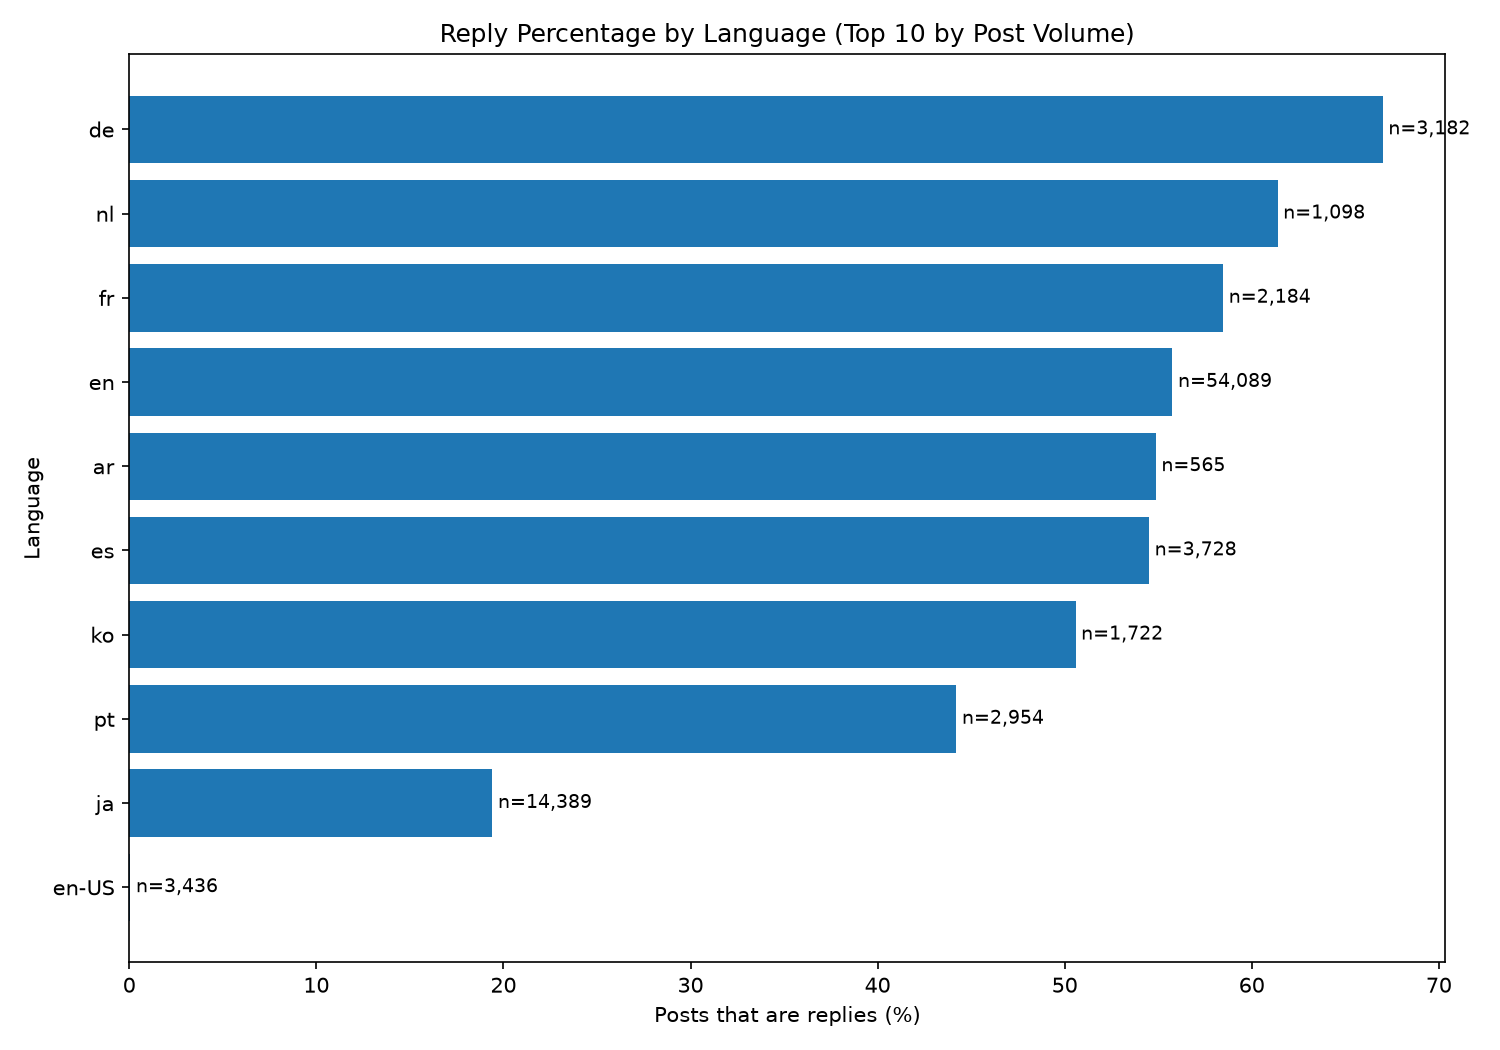
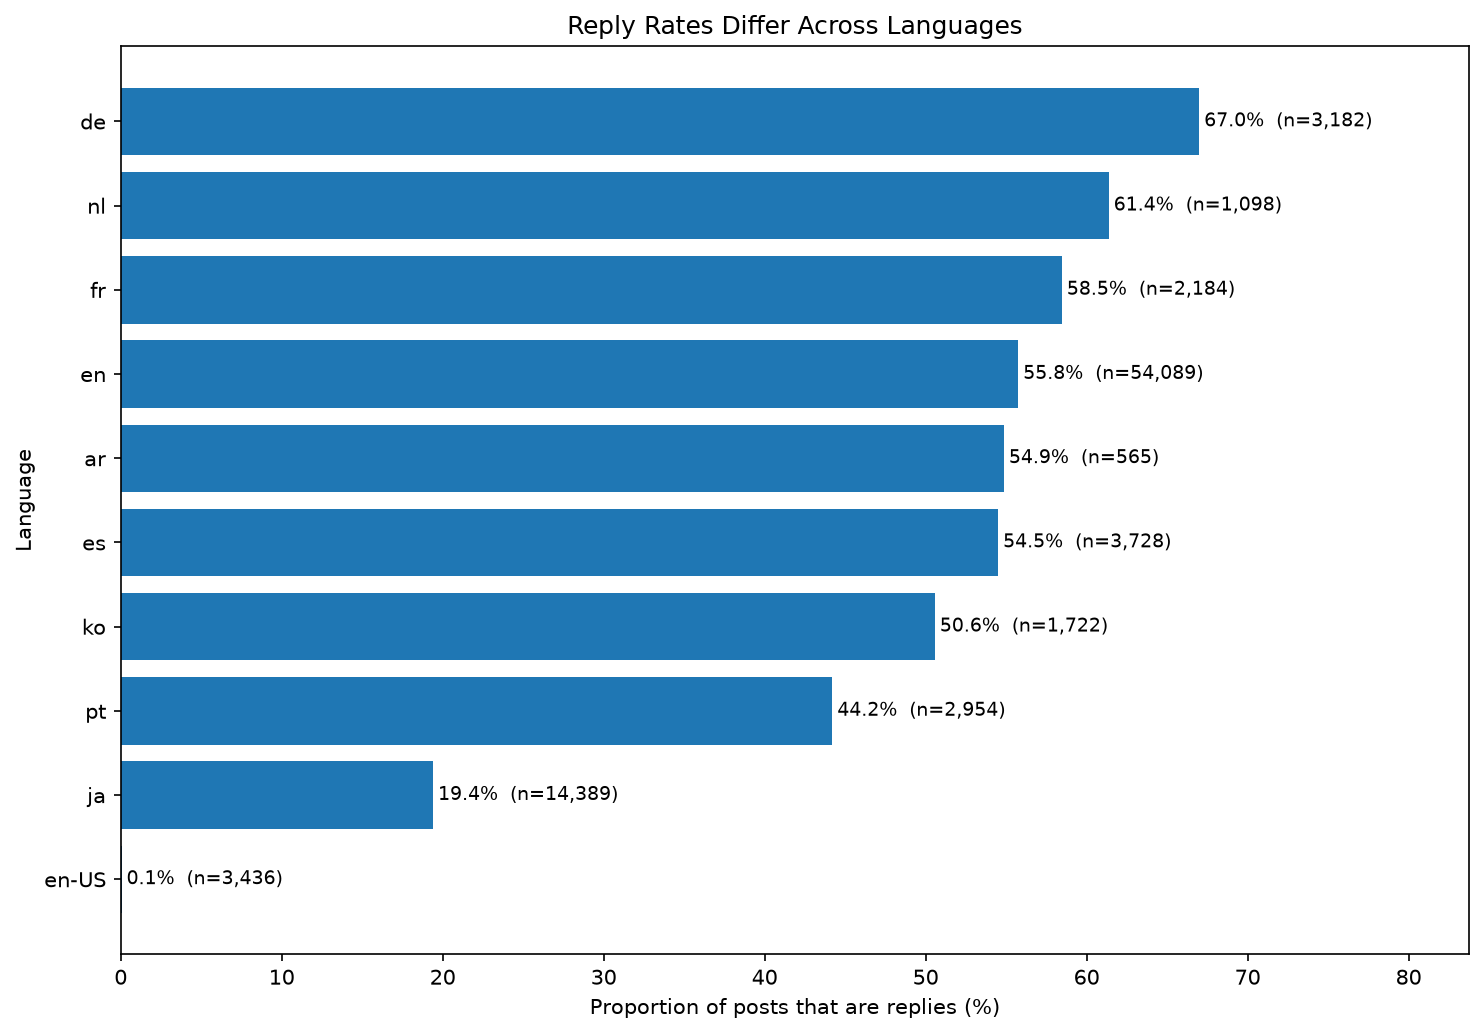
DP3: Session 3

Changed region(s): [[0.031, 0.0, 0.9919, 0.9903], [0.0, 0.4333, 0.031, 0.5261]]

diff --git a/project3/flow.py b/project3/flow.py
@@ -83,21 +83,22 @@ def chart():
     plt.figure(figsize=(10, 7))
     bars = plt.barh(languages, percentages)
 
-    plt.title("Reply Percentage by Language (Top 10 by Post Volume)")
-    plt.xlabel("Posts that are replies (%)")
+    plt.title("Reply Rates Differ Across Languages")
+    plt.xlabel("Proportion of posts that are replies (%)")
     plt.ylabel("Language")
 
-    for bar, count in zip(bars, counts):
+    for bar, percentage, count in zip(bars, percentages, counts):
         plt.text(
-            bar.get_width() + 0.3,
-            bar.get_y() + bar.get_height() / 2,
-            f"n={count:,}",
-            va="center",
-            fontsize=9
-        )
+        bar.get_width() + 0.3,
+        bar.get_y() + bar.get_height() / 2,
+        f"{percentage:.1f}%  (n={count:,})",
+        va="center",
+        fontsize=9
+    )
 
+    plt.xlim(0, max(percentages) * 1.25)
     plt.tight_layout()
-    plt.savefig(CHART, dpi=150)
+    plt.savefig(CHART, dpi=150, bbox_inches="tight")    
     plt.close()
     return CHART
 

diff --git a/project3/README.md b/project3/README.md
@@ -62,9 +62,11 @@ _(replace: one clear paragraph. Your research question, what the data shows, one
 
 ## Plot / Visualization
 
-_(replace: at least one chart, saved in charts/ and shown here. Give it a title and labelled axes with units.)_
 
-![TODO chart title](charts/TODO.png)
+
+![Reply Rates Differ Across Languages](charts/reply_percentage_by_language.png)
+
+Bluesky posts collected in the collection period November 12, 2026, 13:49 UTC – November 16, 2026, 11:54 UTC. through the Kafka streaming pipeline and stored in Parquet files. Each bar represents the percentage of posts in that language classified as replies. Labels show the total number of posts included for each language. The top 10 (highest percentage of replies) are shown and languages with fewer than 100 observations are exluded.
 
 ## Reflection
 
